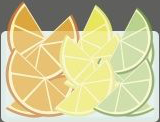
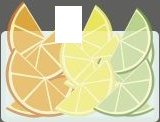
Separate citrus garnishes

Changed region(s): [[0.3438, 0.0492, 0.5312, 0.3689]]

diff --git a/script.js b/script.js
@@ -11,14 +11,18 @@ class Drink {
     }
 }
 
-const ginTonic = new Drink('Gin and Tonic', 'Highball', ['Gin', 'Tonic'], 'Citrus Wedge', 4);
-console.log(ginTonic);
-// const scotchSoda = new Drink('Scotch and Soda', 'Highball', 'Scotch', 'Club Soda', 'Citrus Wedge', 4);
-// const whiskeySour = new Drink('Whiskey Sour', 'Highball', 'Bourbon', 'Sour Mix', 'Citrus Wedge', 4);
-//const ginMartini = new Drink('Gin Martini', 'Cocktail', ['Gin', 'Vermouth'], 'Olive', 8);
+const ginTonic = new Drink('Gin and Tonic', 'Highball', ['Gin', 'Tonic'], 'Lime', 4);
+const scotchSoda = new Drink('Scotch and Soda', 'Highball', ['Scotch', 'Club Soda'], 'Lemon', 4);
+const rumCoke = new Drink('Rum and Coke', 'Highball', ['Rum', 'Coke'], 'Cherry', 4);
+const capeCod = new Drink('Cape Cod', 'Highball', ['Vodka', 'Cranberry'], 'Lime', 4);
+const screwdriver = new Drink('Screwdriver', 'Highball', ['Vodka', 'O.J.'], 'Orange', 4);
+const whiskeySour = new Drink('Whiskey Sour', 'Highball', ['Bourbon', 'Sour Mix'], 'Cherry', 4);
+const ginMartini = new Drink('Gin Martini', 'Cocktail', ['Gin', 'Vermouth'], 'Olive', 8);
+const manhattan = new Drink('Manhattan', 'Cocktail', ['Bourbon', 'Vermouth'], 'Cherry', 8);
+const longIsland = new Drink('Long Island Iced Tea', 'Highball', ['Vodka', 'Rum', 'Gin', 'Tequila', 'Triplesec', 'Coke', 'Sour Mix'], 'Lemon', 8);
 
 //Array of all drinks
-const drinkArray = [ginTonic];
+const drinkArray = [ginTonic, ginMartini, scotchSoda, rumCoke, whiskeySour, manhattan, capeCod, screwdriver, longIsland];
 
 //supplyArray arrays
 const glassArray = [
@@ -40,16 +44,18 @@ const mixerArray = [
     {name: 'Tonic', image: './images/Tonic.png'},
     {name: 'Club Soda', image: './images/Club Soda.png'},
     {name: '7Up', image: './images/7Up.png'},
-    {name: 'Coke', image: './images/7Up.png'},
+    {name: 'Coke', image: './images/Coke.png'},
     {name: 'Sour Mix', image: './images/Pineapple or Sour.png'},
-    {name: 'Orange', image: './images/Orange.png'},
+    {name: 'O.J.', image: './images/Orange.png'},
     {name: 'Pineapple', image: './images/Pineapple or Sour.png'},
     {name: 'Cranberry', image: './images/Cranberry.png'},    
 ];
 const garnishArray = [
     {name: 'Olive', image: './images/olives.png'},
-    {name: 'Citrus Wedge', image: './images/LemonLime.png'},
-    {name: 'Cherry', image: './images/olives.png'},    
+    {name: 'Orange', image: './images/OrangeSlice.png'},
+    {name: 'Lemon', image: './images/LemonSlice.png'},
+    {name: 'Lime', image: './images/LimeSlice.png'},
+    {name: 'Cherry', image: './images/Cherries.png'},    
 ];
 
 //initializing variables
@@ -103,10 +109,18 @@ let tipJar = document.getElementsByClassName("tip-jar")[0];
 let recipeButton = document.getElementsByClassName("recipe-button")[0];
 let drinkRecipe = document.getElementsByClassName("drink-recipe")[0];
 
+//dropdown menu
 recipeButton.addEventListener('click', () => {
     drinkRecipe.classList.toggle("drink-recipe");
     drinkRecipe.classList.toggle("show-recipe");
 })
+
+//clicking outside the menu closes the menu
+window.onclick = (event) => {
+    if (!event.target.matches('.recipe-button') && drinkRecipe.classList.contains('show-recipe')) {
+        drinkRecipe.classList.remove('show-recipe');
+    }
+}
 
 //default value for new customer
 const newCustomer = () => {
@@ -114,10 +128,11 @@ const newCustomer = () => {
     customer.innerText = "🙂"
     wordBubble.innerText = "Hi. I'm a new customer."
     drinkRecipe.innerText =
-        `Glass - ${drinkOrder.glass}
-        Ingredients - ${drinkOrder.ingredients}
-        Garnish - ${drinkOrder.garnish}
-        Price - $${JSON.stringify(drinkOrder.price)}`;
+    `Price: $${JSON.stringify(drinkOrder.price)}
+        ${drinkOrder.glass} glass
+        ${drinkOrder.garnish} garnish
+        INGREDIENTS:
+        ${drinkOrder.ingredients}`;
     drink.innerText = ""; //reset drink ingredients list
 };
 newCustomer();
@@ -155,7 +170,6 @@ const checkIngredients = (arr1, arr2) => {
 }
 
 const serveDrink = () => {
-    //newDrink.ingredients = ingredientsArray;
     console.log(newDrink);
     console.log(ingredientsArray);
     let isMatch = checkIngredients(drinkOrder.ingredients, ingredientsArray);
@@ -170,14 +184,14 @@ const serveDrink = () => {
 }
 
 let tipTotal = 0;
-tipJar.innerText = `Tips: ${tipTotal}`;
+tipJar.innerText = `Tips: $${tipTotal}`;
 const takeTip = () => {
     if (drinkOrder.price === 4) {
         tipTotal += 1;    
     } else {
         tipTotal += 2;
     }
-    tipJar.innerText = `Tips: ${tipTotal}`;
+    tipJar.innerText = `Tips: $${tipTotal}`;
 }
 
 /*New problem: drinks that have multiple mixers or multiple spirits instead of one of each.

diff --git a/style.css b/style.css
@@ -29,7 +29,7 @@ body {
 .recipe-button {
     background-color: #616161;
     padding: 1rem 2rem;
-    font-size: 1.2rem;
+    font-size: 1.4rem;
     color: white;
     cursor: pointer;
     border-radius: 1rem;
@@ -62,7 +62,7 @@ body {
 .tip-jar {
     background-color: #616161;
     padding: 1rem 2rem;
-    font-size: 1.2rem;
+    font-size: 1.4rem;
     color: white;
     border-radius: 1rem;
 }
@@ -145,6 +145,7 @@ body {
     align-items: baseline;
     border-radius: 1rem;
     background-color: #616161;
+    padding-top: 1rem;
     height: 100%;
     width: 100%;
 }

diff --git a/index.html b/index.html
@@ -4,12 +4,12 @@
     <meta charset="UTF-8">
     <meta name="viewport" content="width=device-width, initial-scale=1.0">
     <link rel="stylesheet" href="style.css">
-    <title>Bartending Game: Mix Master</title>
+    <title>Hey Bartender!</title>
 </head>
 
 <body>
     <div class="recipe-container">
-        <div class="recipe-button">See Recipe</div>
+        <div class="recipe-button">Drink Recipe</div>
         <div class="drink-recipe"></div>
     </div>
 
